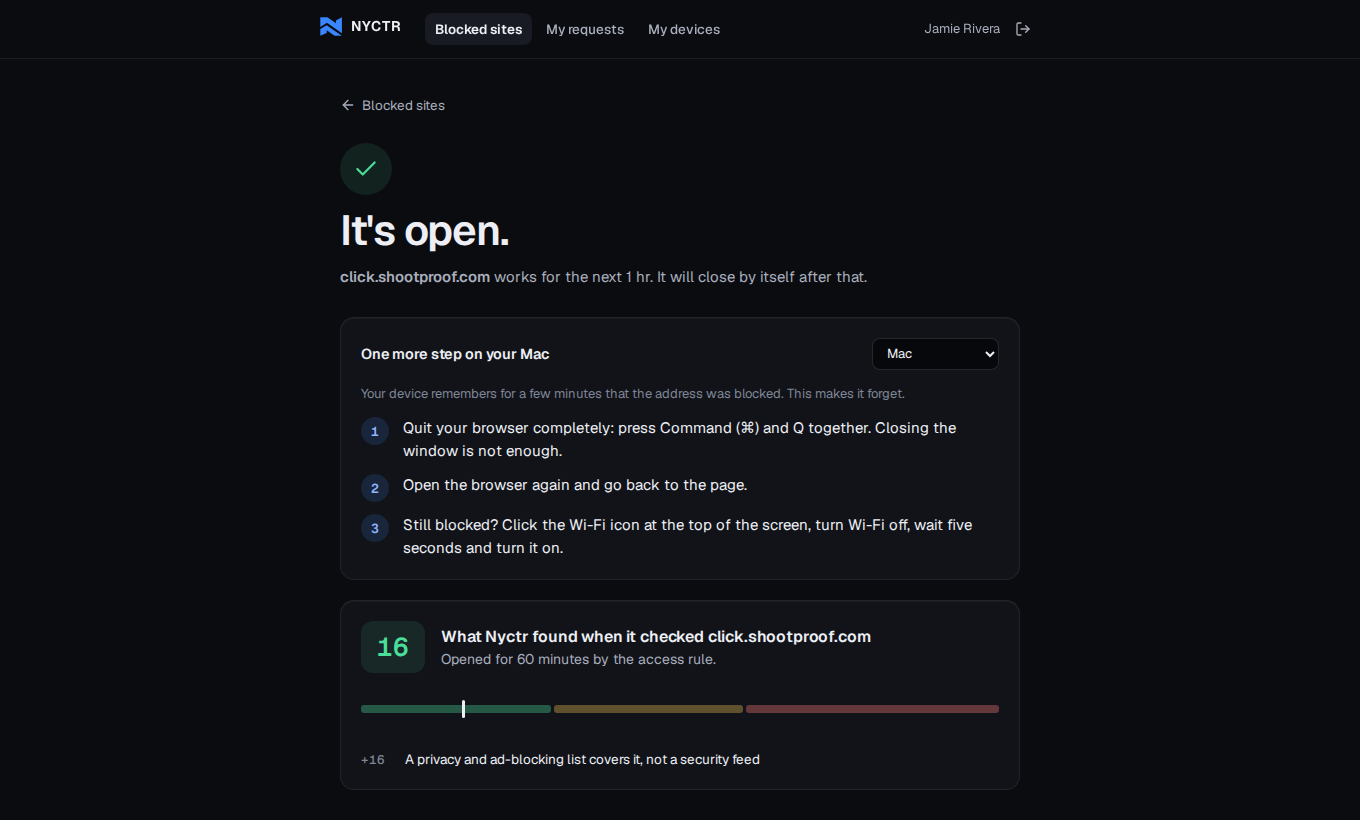
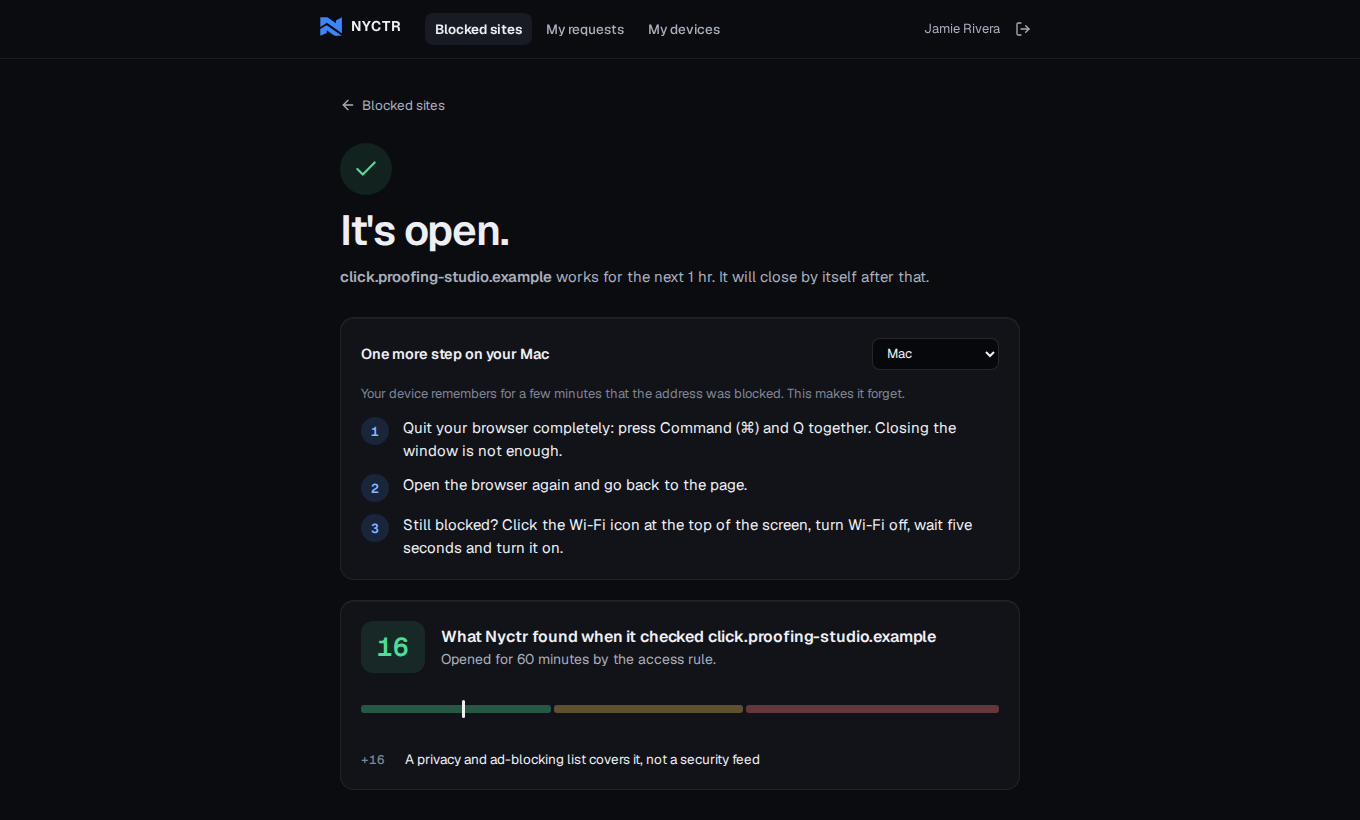
Give the demo reserved names and addresses (#37)
The demo data now uses only values reserved for examples.

- Every blocked lookup in the demo ends in .example.
- The demo's networks, device addresses and hardware addresses come from the blocks reserved for documentation (RFC 5737, RFC 7042).
- A test reads every string in the demo data and every text in fourteen demo responses and fails on a host name, address or hardware address outside those.
- The Map and member portal screenshots in the README are retaken from the demo.

Nothing behaves differently: the demo's links, findings and risk scores are the same.

Changed region(s): [[0.2779, 0.3354, 0.6794, 0.3659], [0.5559, 0.7622, 0.6794, 0.7927]]

diff --git a/apps/web/src/lib/map-layout.test.ts b/apps/web/src/lib/map-layout.test.ts
@@ -34,16 +34,16 @@ const edge = (
   provider: evidence === 'inferred' ? 'nyctr' : 'unifi_network',
   evidence_kind: evidence,
   observed_at: '2026-11-10T00:00:00Z',
-  attributes: evidence === 'inferred' ? { basis: 'Network card tagged VLAN 66' } : {},
+  attributes: evidence === 'inferred' ? { basis: 'Network card tagged VLAN 20' } : {},
 });
 
 const graph: Graph = {
   nodes: [
     node('site', 'site', 'unifi_network'),
     node('gw', 'gateway', 'unifi_network'),
-    node('guest', 'network', 'unifi_network', { vlan: 80 }),
-    node('lan', 'network', 'unifi_network', { vlan: 65 }),
-    node('servers', 'network', 'unifi_network', { vlan: 66 }),
+    node('guest', 'network', 'unifi_network', { vlan: 40 }),
+    node('lan', 'network', 'unifi_network', { vlan: 10 }),
+    node('servers', 'network', 'unifi_network', { vlan: 20 }),
     node('laptop', 'client', 'unifi_network'),
     node('nic', 'client', 'unifi_network'),
     node('pve', 'host', 'proxmox'),
@@ -70,9 +70,9 @@ describe('map layout', () => {
     const layout = layoutMap(graph);
     expect(layout.lanes.map((lane) => lane.id)).toEqual([SHARED, 'lan', 'servers', 'guest']);
     expect(layout.lanes.map((lane) => lane.sub).slice(1)).toEqual([
-      'VLAN 65',
-      'VLAN 66',
-      'VLAN 80',
+      'VLAN 10',
+      'VLAN 20',
+      'VLAN 40',
     ]);
   });
 

diff --git a/apps/web/src/pages/MapPage.test.tsx b/apps/web/src/pages/MapPage.test.tsx
@@ -47,7 +47,7 @@ describe('why a device is filed as a gateway', () => {
 /** Nine devices on one network: the square draws five and a box holds four. */
 const crowded: Graph = {
   nodes: [
-    { ...thing('guest', 'network', 'Guest'), attributes: { vlan: 80 } },
+    { ...thing('guest', 'network', 'Guest'), attributes: { vlan: 40 } },
     ...Array.from({ length: 9 }, (_, i) => thing(`d${i}`, 'client', `Device ${i}`)),
   ],
   edges: Array.from({ length: 9 }, (_, i) => link(`d${i}`, 'guest', 'member_of')),

diff --git a/services/api/nyctr/seed.py b/services/api/nyctr/seed.py
@@ -93,46 +93,46 @@ def seed_demo(db):
             {"name": "Northgate", "enabled": True, "captive_portal": False, "network_id": "example-network-lan"},
             {"name": "Northgate IoT", "enabled": True, "captive_portal": False, "network_id": "example-network-iot"},
             {"name": "Northgate Guest", "enabled": True, "captive_portal": True, "network_id": "example-network-guest"}]}),
-        ("gateway", "Northgate gateway", "gateway", "demo-unifi", "infrastructure", None, {"model": "Cloud gateway", "ip": "10.20.65.1"}),
+        ("gateway", "Northgate gateway", "gateway", "demo-unifi", "infrastructure", None, {"model": "Cloud gateway", "ip": "192.0.2.1"}),
         ("switch-core", "Core aggregation", "switch", "demo-unifi", "infrastructure", None, {"model": "Aggregation switch", "ports": 8}),
         ("ap-basement", "Ground floor access point", "access_point", "demo-unifi", "infrastructure", None, {"model": "Wireless AP"}),
-        ("network-lan", "Trusted LAN", "network", "demo-unifi", "infrastructure", None, {"vlan": 65, "subnet": "10.20.65.0/24"}),
-        ("network-guest", "Guest network", "network", "demo-unifi", "infrastructure", None, {"vlan": 80, "subnet": "10.20.80.0/24", "purpose": "guest"}),
-        ("network-iot", "IoT network", "network", "demo-unifi", "infrastructure", None, {"vlan": 67, "subnet": "10.20.67.0/24"}),
-        ("laptop-jamie", "Jamie's MacBook", "client", "demo-unifi", "personal", "user-jamie", {"ip": "10.20.65.42", "mac": "a4:83:e7:10:20:42", "platform": "macOS", "type": "WIRELESS"}),
-        ("tablet-family", "Front desk tablet", "client", "demo-unifi", "shared", None, {"ip": "10.20.65.51", "mac": "f0:18:98:10:20:51", "platform": "iPadOS", "type": "WIRELESS"}),
-        ("workstation", "Alex's workstation", "client", "demo-unifi", "personal", "user-admin", {"ip": "10.20.65.28", "mac": "3c:7c:3f:10:20:28", "platform": "Linux", "type": "WIRED"}),
-        ("washer", "Lobby display", "client", "demo-unifi", "infrastructure", None, {"ip": "10.20.67.80", "mac": "00:1d:c9:10:20:80", "category": "IoT", "type": "WIRELESS"}),
-        ("old-laptop", "Reassigned laptop", "client", "demo-unifi", "personal", "user-admin", {"ip": "10.20.65.62", "mac": "8c:85:90:10:20:62", "type": "WIRELESS"}),
-        ("host-compute", "Compute-01", "host", "demo-compute", "infrastructure", None, {"status": "online", "addresses": ["10.20.66.3"], "cluster_firewall_enabled": True}),
-        ("workload-photos", "Document service", "workload", "demo-compute", "infrastructure", None, {"vmid": "101", "type": "vm", "node": "compute-01", "status": "running", "firewall_enabled": True, "nics": [{"bridge": "vmbr0", "mac": "bc:24:11:10:66:11", "vlan": 66, "firewall": True}], "port": 443}),
-        ("workload-management", "Management console", "workload", "demo-compute", "infrastructure", None, {"vmid": "102", "type": "vm", "node": "compute-01", "status": "running", "firewall_enabled": True, "nics": [{"bridge": "vmbr0", "mac": "bc:24:11:10:66:12", "vlan": 66, "firewall": True}], "port": 8006}),
+        ("network-lan", "Trusted LAN", "network", "demo-unifi", "infrastructure", None, {"vlan": 10, "subnet": "192.0.2.0/25"}),
+        ("network-guest", "Guest network", "network", "demo-unifi", "infrastructure", None, {"vlan": 40, "subnet": "203.0.113.0/24", "purpose": "guest"}),
+        ("network-iot", "IoT network", "network", "demo-unifi", "infrastructure", None, {"vlan": 30, "subnet": "192.0.2.128/25"}),
+        ("laptop-jamie", "Jamie's MacBook", "client", "demo-unifi", "personal", "user-jamie", {"ip": "192.0.2.42", "mac": "00:00:5e:00:53:42", "platform": "macOS", "type": "WIRELESS"}),
+        ("tablet-family", "Front desk tablet", "client", "demo-unifi", "shared", None, {"ip": "192.0.2.51", "mac": "00:00:5e:00:53:51", "platform": "iPadOS", "type": "WIRELESS"}),
+        ("workstation", "Alex's workstation", "client", "demo-unifi", "personal", "user-admin", {"ip": "192.0.2.28", "mac": "00:00:5e:00:53:28", "platform": "Linux", "type": "WIRED"}),
+        ("washer", "Lobby display", "client", "demo-unifi", "infrastructure", None, {"ip": "192.0.2.180", "mac": "00:00:5e:00:53:80", "category": "IoT", "type": "WIRELESS"}),
+        ("old-laptop", "Reassigned laptop", "client", "demo-unifi", "personal", "user-admin", {"ip": "192.0.2.62", "mac": "00:00:5e:00:53:62", "type": "WIRELESS"}),
+        ("host-compute", "Compute-01", "host", "demo-compute", "infrastructure", None, {"status": "online", "addresses": ["198.51.100.3"], "cluster_firewall_enabled": True}),
+        ("workload-photos", "Document service", "workload", "demo-compute", "infrastructure", None, {"vmid": "101", "type": "vm", "node": "compute-01", "status": "running", "firewall_enabled": True, "nics": [{"bridge": "vmbr0", "mac": "00:00:5e:00:53:11", "vlan": 20, "firewall": True}], "port": 443}),
+        ("workload-management", "Management console", "workload", "demo-compute", "infrastructure", None, {"vmid": "102", "type": "vm", "node": "compute-01", "status": "running", "firewall_enabled": True, "nics": [{"bridge": "vmbr0", "mac": "00:00:5e:00:53:12", "vlan": 20, "firewall": True}], "port": 8006}),
         ("policy-guest", "Guest → services", "policy", "demo-unifi", "infrastructure", None, {"action": "allow", "port": 8006, "review": "source scope too broad"}),
         ("dns-home", "Office DNS profile", "dns_profile", "demo-nextdns", "infrastructure", None, {"scope": "All devices using this profile", "logs_enabled": True}),
         # Added with the console MVP: a servers VLAN, a second access point, guests and Proxmox networking.
-        ("network-servers", "Servers", "network", "demo-unifi", "infrastructure", None, {"vlan": 66, "subnet": "10.20.66.0/24"}),
+        ("network-servers", "Servers", "network", "demo-unifi", "infrastructure", None, {"vlan": 20, "subnet": "198.51.100.0/24"}),
         ("ap-upstairs", "First floor access point", "access_point", "demo-unifi", "infrastructure", None, {"model": "Wireless AP"}),
-        ("client-compute", "compute-01", "client", "demo-unifi", "infrastructure", None, {"ip": "10.20.66.3", "mac": "58:47:ca:10:66:03", "type": "WIRED"}),
+        ("client-compute", "compute-01", "client", "demo-unifi", "infrastructure", None, {"ip": "198.51.100.3", "mac": "00:00:5e:00:53:03", "type": "WIRED"}),
         ("guest-priya", "Priya's iPhone", "client", "demo-unifi", "unassigned", None, {
-            "ip": "10.20.80.21", "mac": "de:ad:10:20:80:21", "type": "WIRELESS", "uplink": "example-ap-upstairs", "connected_at": _iso(now, 95),
+            "ip": "203.0.113.21", "mac": "00:00:5e:00:53:21", "type": "WIRELESS", "uplink": "example-ap-upstairs", "connected_at": _iso(now, 95),
             "guest": {"authorized": True, "method": "pass", "authorized_at": _iso(now, 94),
                       "expires_at": _iso(now, -386), "bytes": 412_000_000, "seconds": 5640}}),
         ("guest-hvac", "HVAC-Laptop", "client", "demo-unifi", "unassigned", None, {
-            "ip": "10.20.80.34", "mac": "de:ad:10:20:80:34", "type": "WIRELESS", "uplink": "example-ap-basement", "connected_at": _iso(now, 41),
+            "ip": "203.0.113.34", "mac": "00:00:5e:00:53:34", "type": "WIRELESS", "uplink": "example-ap-basement", "connected_at": _iso(now, 41),
             "guest": {"authorized": True, "method": "pass", "authorized_at": _iso(now, 40),
                       "expires_at": _iso(now, -200), "bytes": 38_000_000, "seconds": 2400}}),
         ("guest-pixel", "Pixel 8", "client", "demo-unifi", "unassigned", None, {
-            "ip": "10.20.80.47", "mac": "de:ad:10:20:80:47", "type": "WIRELESS", "uplink": "example-ap-basement", "connected_at": _iso(now, 27),
+            "ip": "203.0.113.47", "mac": "00:00:5e:00:53:47", "type": "WIRELESS", "uplink": "example-ap-basement", "connected_at": _iso(now, 27),
             "guest": {"authorized": False, "method": "pass", "authorized_at": _iso(now, 26),
                       "expires_at": _iso(now, -94), "bytes": 9_400_000, "seconds": 1200}}),
         ("guest-galaxy", "Galaxy-S24", "client", "demo-unifi", "unassigned", None, {
-            "ip": "10.20.80.52", "mac": "de:ad:10:20:80:52", "type": "WIRELESS", "uplink": "example-ap-upstairs", "connected_at": _iso(now, 3),
+            "ip": "203.0.113.52", "mac": "00:00:5e:00:53:52", "type": "WIRELESS", "uplink": "example-ap-upstairs", "connected_at": _iso(now, 3),
             "guest": {"authorized": False}}),
-        ("bridge-vmbr0", "vmbr0 on compute-01", "bridge", "demo-compute", "infrastructure", None, {"iface": "vmbr0", "node": "compute-01", "active": True, "vlan_aware": True, "ports": "enp3s0", "cidr": "10.20.66.3/24"}),
-        ("workload-indexer", "Search indexer", "workload", "demo-compute", "infrastructure", None, {"vmid": "204", "type": "container", "node": "compute-01", "status": "running", "firewall_enabled": False, "nics": [{"bridge": "vmbr0", "mac": "bc:24:11:10:66:44", "vlan": 66, "firewall": False}]}),
+        ("bridge-vmbr0", "vmbr0 on compute-01", "bridge", "demo-compute", "infrastructure", None, {"iface": "vmbr0", "node": "compute-01", "active": True, "vlan_aware": True, "ports": "enp3s0", "cidr": "198.51.100.3/24"}),
+        ("workload-indexer", "Search indexer", "workload", "demo-compute", "infrastructure", None, {"vmid": "204", "type": "container", "node": "compute-01", "status": "running", "firewall_enabled": False, "nics": [{"bridge": "vmbr0", "mac": "00:00:5e:00:53:44", "vlan": 20, "firewall": False}]}),
         ("dns-label-jamie", "Jamies-MacBook-Pro", "client", "demo-nextdns", "unassigned", None, {"model": "MacBook Pro", "identity_verified": False}),
         ("dns-workshop", "Annex resolver", "dns_profile", "demo-pihole", "infrastructure", None, {"scope": "entire_resolver"}),
-        ("dns-label-bench", "bench-pc", "client", "demo-pihole", "unassigned", None, {"ip": "10.20.67.90", "identity_verified": False}),
+        ("dns-label-bench", "bench-pc", "client", "demo-pihole", "unassigned", None, {"ip": "192.0.2.190", "identity_verified": False}),
     ]
     for id_, name, kind, integration, classification, owner, attrs in resources:
         provider = {"demo-nextdns": "nextdns", "demo-compute": "proxmox",
@@ -179,13 +179,13 @@ def seed_demo(db):
     db.add(DeviceGrant(device_id="old-laptop", user_id="user-admin", valid_from=now - timedelta(hours=1)))
     privacy, threat = ["blocklist:hagezi-multi-pro-plusplus"], ["threat-intelligence-feeds"]
     events = [
-        ("block-gallery", "laptop-jamie", "Jamie's MacBook", "click.shootproof.com", "HaGeZi Multi PRO++", privacy, 8),
-        ("block-tablet", "tablet-family", "Front desk tablet", "gallery.example.com", "Denylist", ["denylist"], 26),
-        ("block-admin", "workstation", "Alex's workstation", "downloads.example.net", "Threat Intelligence Feeds", threat, 12),
+        ("block-gallery", "laptop-jamie", "Jamie's MacBook", "click.proofing-studio.example", "HaGeZi Multi PRO++", privacy, 8),
+        ("block-tablet", "tablet-family", "Front desk tablet", "gallery.imagehost.example", "Denylist", ["denylist"], 26),
+        ("block-admin", "workstation", "Alex's workstation", "downloads.filemirror.example", "Threat Intelligence Feeds", threat, 12),
         ("block-washer", "washer", "Lobby display", "telemetry.display-vendor.example", "IoT outbound policy", [], 3),
-        ("block-unattributed", None, "Unknown source device", "metrics.example.org", "Upstream DNS query lacks device identity", [], 5),
-        ("block-old-owner", "old-laptop", "Reassigned laptop", "work.example.net", "Historical event before device reassignment", [], 120),
-        ("block-expired", "laptop-jamie", "Jamie's MacBook", "old.example.com", "Expired inbox fixture", [], 3000),
+        ("block-unattributed", None, "Unknown source device", "metrics.analytics-hub.example", "Upstream DNS query lacks device identity", [], 5),
+        ("block-old-owner", "old-laptop", "Reassigned laptop", "work.intranet-tools.example", "Historical event before device reassignment", [], 120),
+        ("block-expired", "laptop-jamie", "Jamie's MacBook", "old.archive-site.example", "Expired inbox fixture", [], 3000),
         ("block-fonts", "laptop-jamie", "Jamie's MacBook", "fonts.partner-metrics.example", "HaGeZi Multi PRO++", privacy, 19),
         ("block-verify", "laptop-jamie", "Jamie's MacBook", "account-verify.secure-login.example", "Newly Registered Domains", ["nrd"], 34),
         ("block-stream", "tablet-family", "Front desk tablet", "watch.streamhub.example", "Parental Control: streaming", ["parental-control:category"], 52),

diff --git a/services/api/tests/test_proxmox.py b/services/api/tests/test_proxmox.py
@@ -15,8 +15,8 @@ TOKEN = "nyctr@pve!reader=0f8fad5b-d9cb-469f-a165-70867728950e"
 
 
 @pytest.mark.parametrize("text,expected", [
-    ("virtio=BC:24:11:AA:BB:CC,bridge=vmbr0,firewall=1,tag=66",
-     {"bridge": "vmbr0", "mac": "bc:24:11:aa:bb:cc", "vlan": 66, "firewall": True, "link_down": False}),
+    ("virtio=BC:24:11:AA:BB:CC,bridge=vmbr0,firewall=1,tag=20",
+     {"bridge": "vmbr0", "mac": "bc:24:11:aa:bb:cc", "vlan": 20, "firewall": True, "link_down": False}),
     ("name=eth0,bridge=vmbr1,hwaddr=BC:24:11:00:00:01,ip=dhcp,type=veth",
      {"bridge": "vmbr1", "mac": "bc:24:11:00:00:01", "vlan": None, "firewall": False, "link_down": False}),
     ("e1000=BC:24:11:00:00:02,bridge=vmbr0,tag=9999,link_down=1",
@@ -64,11 +64,11 @@ def test_collection_reads_only_and_models_cards_as_configuration(monkeypatch):
                                {"type": "storage", "node": "pve1", "id": "storage/pve1/local"}],
         "/cluster/firewall/options": {"enable": 1},
         "/nodes/pve1/network": [{"iface": "vmbr0", "type": "bridge", "active": 1, "bridge_vlan_aware": 1,
-                                 "cidr": "10.20.66.3/24", "bridge_ports": "enp3s0"},
+                                 "cidr": "198.51.100.3/24", "bridge_ports": "enp3s0"},
                                 {"iface": "enp3s0", "type": "eth"}],
-        "/nodes/pve1/qemu/101/config": {"name": "photos", "net0": "virtio=BC:24:11:10:66:11,bridge=vmbr0,tag=66,firewall=1"},
+        "/nodes/pve1/qemu/101/config": {"name": "photos", "net0": "virtio=00:00:5e:00:53:11,bridge=vmbr0,tag=20,firewall=1"},
         "/nodes/pve1/qemu/101/firewall/options": {"enable": 1},
-        "/nodes/pve1/lxc/204/config": {"hostname": "indexer", "net0": "name=eth0,bridge=vmbr0,hwaddr=BC:24:11:10:66:44,tag=66"},
+        "/nodes/pve1/lxc/204/config": {"hostname": "indexer", "net0": "name=eth0,bridge=vmbr0,hwaddr=00:00:5e:00:53:44,tag=20"},
     }
     calls = []
 
@@ -90,14 +90,14 @@ def test_collection_reads_only_and_models_cards_as_configuration(monkeypatch):
     kinds = sorted(node["kind"] for node in snapshot.resources)
     assert kinds == ["bridge", "host", "workload", "workload"] and snapshot.blocks == []
     by_name = {node["name"]: node for node in snapshot.resources}
-    assert by_name["pve1"]["attributes"]["addresses"] == ["10.20.66.3"]
+    assert by_name["pve1"]["attributes"]["addresses"] == ["198.51.100.3"]
     assert by_name["photos"]["attributes"]["firewall_enabled"] is True
     # The container's firewall option read failed: its state is unknown, never assumed off.
     assert by_name["indexer"]["attributes"]["firewall_enabled"] is None
     assert by_name["indexer"]["attributes"]["nics"][0]["firewall"] is False
     assert "proxmox_firewall_options_unavailable" in evidence.gaps
     card = next(e for e in snapshot.relationships if e["kind"] == "connects_to" and e["source"] == by_name["photos"]["id"])
-    assert card["evidence_kind"] == "configured" and card["attributes"]["vlan"] == 66
+    assert card["evidence_kind"] == "configured" and card["attributes"]["vlan"] == 20
     assert all(edge["kind"] in {"hosted_by", "connects_to"} for edge in snapshot.relationships)
 
 
@@ -106,14 +106,14 @@ def test_cross_source_links_need_a_unique_match():
     def row(id_, provider, kind, **attrs):
         return {"id": id_, "provider": provider, "kind": kind, "attributes": attrs, "observed_at": "2026-11-10T00:00:00+00:00"}
 
-    vm = row("vm", "proxmox", "workload", nics=[{"mac": "BC:24:11:00:00:01", "vlan": 66}])
+    vm = row("vm", "proxmox", "workload", nics=[{"mac": "BC:24:11:00:00:01", "vlan": 20}])
     client = row("c1", "unifi_network", "client", mac="bc:24:11:00:00:01")
-    lan = row("n66", "unifi_network", "network", vlan=66)
+    lan = row("n20", "unifi_network", "network", vlan=20)
     links = derived_links([vm, client, lan])
     assert {(e["source"], e["target"], e["kind"], e["evidence_kind"]) for e in links} == {
-        ("vm", "c1", "same_device", "inferred"), ("vm", "n66", "member_of", "inferred")}
+        ("vm", "c1", "same_device", "inferred"), ("vm", "n20", "member_of", "inferred")}
     twin = row("c2", "unifi_network", "client", mac="bc:24:11:00:00:01")
-    other = row("n66b", "unifi_network", "network", vlan=66)
+    other = row("n20b", "unifi_network", "network", vlan=20)
     assert derived_links([vm, client, twin, lan, other]) == []
 
 

diff --git a/services/api/tests/test_plain_words.py b/services/api/tests/test_plain_words.py
@@ -1,5 +1,7 @@
 """Sentences an administrator reads: refusals in the form's own words, every audit action worded, gaps that agree."""
 
+import ast
+import ipaddress
 import re
 from pathlib import Path
 
@@ -144,16 +146,16 @@ SHOWN = ("/api/integrations", "/api/resources", "/api/blocks", "/api/requests", 
          "/api/guests", "/api/findings", "/api/users", "/api/devices", "/api/attention", "/api/overview")
 
 
-def _words(value, key=""):
+def _words(value, key="", keyed=False):
     """Every text a page could show from a response: values only, and never an id or a reference to one."""
     if isinstance(value, dict):
         for name, item in value.items():
-            yield from _words(item, name)
+            yield from _words(item, name, keyed)
     elif isinstance(value, list):
         for item in value:
-            yield from _words(item, key)
+            yield from _words(item, key, keyed)
     elif isinstance(value, str) and not re.search(r"(^|_)ids?$|^(uplink|source|target|email|href|link)$", key):
-        yield value
+        yield (key, value) if keyed else value
 
 
 def test_the_demo_names_no_real_installation_and_uses_no_home_wording(client, admin_headers):
@@ -167,3 +169,33 @@ def test_the_demo_names_no_real_installation_and_uses_no_home_wording(client, ad
     assert sorted({text for text in shown if HOUSEHOLD.search(text)}) == []
     surnames = [row["name"].split()[-1] for row in client.get("/api/users").json()]
     assert len(set(surnames)) == len(surnames), "people who share a surname read as one family"
+
+
+# Names nobody can register: the endings kept for examples and tests.
+RESERVED = (".example", ".test", ".invalid", ".localhost")
+HOST = re.compile(r"(?<![\w@.-])(?:[a-z0-9-]+\.)+[a-z]{2,}(?![\w-])")
+# The address ranges kept for documentation, and the hardware addresses kept for it.
+DOCUMENTED = [ipaddress.ip_network(block) for block in ("192.0.2.0/24", "198.51.100.0/24", "203.0.113.0/24")]
+ADDRESS = re.compile(r"(?<![\d.])(?:\d{1,3}\.){3}\d{1,3}(?![\d.])")
+HARDWARE = re.compile(r"\b(?:[0-9a-f]{2}:){5}[0-9a-f]{2}\b", re.I)
+
+
+def test_the_demo_shows_no_real_host_name_address_or_hardware_address(client, admin_headers):
+    """Every host name ends in a reserved name, and every address is from a block kept for documentation."""
+    seeded = [node.value for node in ast.walk(ast.parse((API / "seed.py").read_text()))
+              if isinstance(node, ast.Constant) and isinstance(node.value, str)]
+    # An audit action and a capability are codes with a dot, worded by the page and never shown as stored.
+    shown = [text for path in (*SHOWN, "/api/graph", "/api/audit")
+             for key, text in _words(client.get(path).json(), keyed=True) if key not in {"action", "provides"}]
+    assert len(seeded) > 400 and len(shown) > 800
+    products = [provider.name for provider in registry.providers().values()]
+    hosts, addresses, hardware = set(), set(), set()
+    for text in (*seeded, *shown):
+        for product in products:  # an integration's own product may be written with a dot
+            text = text.replace(product, "")
+        hosts |= {host for host in HOST.findall(text) if not host.endswith(RESERVED)}
+        addresses |= {found for found in ADDRESS.findall(text)
+                      if not any(ipaddress.ip_address(found) in block for block in DOCUMENTED)}
+        hardware |= {found for found in HARDWARE.findall(text) if not found.lower().startswith("00:00:5e:00:53:")}
+    assert (sorted(hosts), sorted(addresses), sorted(hardware)) == ([], [], [])
+    assert any(HOST.search(text) for text in shown) and any(ADDRESS.search(text) for text in shown)

diff --git a/services/api/tests/test_access.py b/services/api/tests/test_access.py
@@ -191,9 +191,9 @@ def test_this_device_is_recognised_only_among_the_callers_devices(client, app, m
     """Recognition returns a device the member already holds; an address never grants a new one."""
     seen = client.get("/api/me/device").json()
     assert seen == {"device_id": "laptop-jamie", "name": "Jamie's MacBook", "simulated": True}
-    found = client.post("/api/blocks/find", headers=member_headers, json={"domain": "shootproof.com"}).json()
+    found = client.post("/api/blocks/find", headers=member_headers, json={"domain": "proofing-studio.example"}).json()
     assert [x["id"] for x in found] == ["block-gallery"]
-    hidden = client.post("/api/blocks/find", headers=member_headers, json={"domain": "downloads.example.net"})
+    hidden = client.post("/api/blocks/find", headers=member_headers, json={"domain": "downloads.filemirror.example"})
     assert hidden.json() == []
 
 
@@ -271,7 +271,7 @@ def test_enabled_writes_add_verify_and_remove_only_what_nyctr_created(tmp_path, 
     with TestClient(app) as client:
         seed_live_member(app)
         row, admin_headers = open_live(client, app)
-        assert row["status"] == "auto_approved" and allowlist == ["click.shootproof.com"]
+        assert row["status"] == "auto_approved" and allowlist == ["click.proofing-studio.example"]
         lease = client.get("/api/leases").json()[0]
         assert lease["execution"] == "applied" and lease["owned"] is True
         assert [c[0] for c in calls] == ["GET", "POST", "GET"]
@@ -283,7 +283,7 @@ def test_enabled_writes_add_verify_and_remove_only_what_nyctr_created(tmp_path, 
 
 def test_a_preexisting_entry_is_never_removed(tmp_path, monkeypatch):
     """If the domain was already allowed, the lease is not owned and expiry leaves the provider alone."""
-    allowlist = ["click.shootproof.com"]
+    allowlist = ["click.proofing-studio.example"]
     calls = nextdns_mock(monkeypatch, allowlist)
     app = live_app(tmp_path, provider_writes="nextdns")
     with TestClient(app) as client:
@@ -292,7 +292,7 @@ def test_a_preexisting_entry_is_never_removed(tmp_path, monkeypatch):
         lease = client.get("/api/leases").json()[0]
         assert lease["execution"] == "applied" and lease["owned"] is False
         assert client.post(f"/api/leases/{lease['id']}/end", headers=admin_headers).status_code == 200
-        assert allowlist == ["click.shootproof.com"] and all(method == "GET" for method, _ in calls)
+        assert allowlist == ["click.proofing-studio.example"] and all(method == "GET" for method, _ in calls)
 
 
 def test_a_failed_close_stays_open_visible_and_retried(tmp_path, monkeypatch):
@@ -307,7 +307,7 @@ def test_a_failed_close_stays_open_visible_and_retried(tmp_path, monkeypatch):
         assert client.post(f"/api/leases/{lease['id']}/end", headers=admin_headers).status_code == 502
         after = client.get("/api/leases").json()[0]
         assert after["status"] == "active" and "HTTP 500" in after["last_error"]
-        assert allowlist == ["click.shootproof.com"]
+        assert allowlist == ["click.proofing-studio.example"]
         assert any(x["kind"] == "lease" for x in client.get("/api/attention").json())
 
 

diff --git a/services/api/tests/test_integrations.py b/services/api/tests/test_integrations.py
@@ -295,9 +295,9 @@ def test_unifi_destination_boundaries(monkeypatch, url):
 
 def test_expected_private_gateway_requires_explicit_allowlist(monkeypatch):
     """Permit an intended private console only with explicit server-side host approval."""
-    monkeypatch.setenv("NYCTR_CONNECTOR_HOSTS", "10.20.65.1")
-    config = validate_config("unifi_network", {"base_url": "https://10.20.65.1/proxy/network/integration/"})
-    assert config["base_url"] == "https://10.20.65.1/proxy/network/integration"
+    monkeypatch.setenv("NYCTR_CONNECTOR_HOSTS", "192.0.2.1")
+    config = validate_config("unifi_network", {"base_url": "https://192.0.2.1/proxy/network/integration/"})
+    assert config["base_url"] == "https://192.0.2.1/proxy/network/integration"
 
 
 def test_nextdns_does_not_accept_credential_destinations_or_inline_secrets():
@@ -318,8 +318,8 @@ def test_unifi_models_real_uplink_and_policy_evidence_not_access_results(monkeyp
     pages = {
         "/v1/sites": [{"id": "site-one", "name": "Lab"}],
         "/v1/sites/site-one/devices": [{"id": "gw-one", "name": "Gateway", "features": ["gateway", "switching"]}],
-        "/v1/sites/site-one/networks": [{"id": "net-one", "name": "LAN", "vlanId": 66, "zoneId": "internal"}],
-        "/v1/sites/site-one/clients": [{"id": "client-one", "name": "Laptop", "uplinkDeviceId": "gw-one", "ipAddress": "10.20.66.10", "type": "WIRED"}],
+        "/v1/sites/site-one/networks": [{"id": "net-one", "name": "LAN", "vlanId": 20, "zoneId": "internal"}],
+        "/v1/sites/site-one/clients": [{"id": "client-one", "name": "Laptop", "uplinkDeviceId": "gw-one", "ipAddress": "198.51.100.10", "type": "WIRED"}],
         "/v1/sites/site-one/firewall/policies": [{"id": "rule-one", "name": "Block management", "action": {"type": "BLOCK"}, "source": {"zoneId": "internal"}, "destination": {"zoneId": "external"}, "index": 10}],
         "/v1/sites/site-one/hotspot/vouchers": [],
         "/v1/sites/site-one/wifi/broadcasts": [

diff --git a/services/api/tests/test_query.py b/services/api/tests/test_query.py
@@ -22,10 +22,10 @@ def test_inventory_filters_and_nested_links(client, admin_headers):
       workloads(firewall: false) { name attr(key: "vmid") network { name } }
       networks { name attr(key: "vlan") }
       guests: devices(search: "pixel") { name evidence blocks(first: 10) { domain riskBand } }
-      tagged: resources(kind: ["network"], where: [{key: "vlan", eq: "80"}]) { name neighbors(kind: "client") { name } }
+      tagged: resources(kind: ["network"], where: [{key: "vlan", eq: "40"}]) { name neighbors(kind: "client") { name } }
     }""")["data"]
     assert data["workloads"] == [{"name": "Search indexer", "attr": "204", "network": {"name": "Servers"}}]
-    assert {"name": "Guest network", "attr": "80"} in data["networks"]
+    assert {"name": "Guest network", "attr": "40"} in data["networks"]
     assert {b["riskBand"] for b in data["guests"][0]["blocks"]} == {"high", "low"}
     assert {n["name"] for n in data["tagged"][0]["neighbors"]} == {"Priya's iPhone", "HVAC-Laptop", "Pixel 8",
                                                                 "Galaxy-S24"}

diff --git a/services/api/tests/test_assistant.py b/services/api/tests/test_assistant.py
@@ -96,7 +96,7 @@ def test_model_context_is_redacted_and_injected_text_stays_data(tmp_path, monkey
     waiting = pack["requests_waiting"][0]
     assert waiting["their_reason"].startswith("Ignore previous instructions")
     assert "eve@evil.example" not in user and "10.9.8.7" not in user and "[removed]" in waiting["their_reason"]
-    for secret in ("77102-33864", "model-secret", "nyctr-demo", "10.20.80.47", "de:ad:10:20:80:47", "jamie@nyctr.demo"):
+    for secret in ("77102-33864", "model-secret", "nyctr-demo", "203.0.113.47", "00:00:5e:00:53:47", "jamie@nyctr.demo"):
         assert secret not in user
     assert "guest-pixel" not in user and "request-stream" not in user  # only short refs are exposed
 

diff --git a/services/api/tests/test_risk.py b/services/api/tests/test_risk.py
@@ -7,7 +7,7 @@ from nyctr import risk
 
 def test_privacy_list_block_scores_low_and_says_why():
     """A privacy-list reason is low risk and the factor names the kind of list, not a verdict of safety."""
-    result = risk.assess("click.shootproof.com", "HaGeZi Multi PRO++", ["blocklist:hagezi-multi-pro-plusplus"], "nextdns")
+    result = risk.assess("click.proofing-studio.example", "HaGeZi Multi PRO++", ["blocklist:hagezi-multi-pro-plusplus"], "nextdns")
     assert result.score == 16 and result.band == "low" and result.category == risk.PRIVACY
     assert "privacy" in result.factors[0]["label"].lower()
 

diff --git a/services/api/tests/conftest.py b/services/api/tests/conftest.py
@@ -60,7 +60,7 @@ def live_signin(client, who=LIVE_ADMIN):
 
 
 def seed_live_member(app, *, reason="HaGeZi Multi PRO++", codes=("blocklist:hagezi-multi-pro-plusplus",),
-                     domain="click.shootproof.com"):
+                     domain="click.proofing-studio.example"):
     """Insert a NextDNS source, one member with one personal device, and one fresh attributed block."""
     from datetime import timedelta
 

diff --git a/services/api/tests/test_crossing.py b/services/api/tests/test_crossing.py
@@ -20,7 +20,7 @@ from nyctr import access
 from nyctr.integrations import IntegrationError, actions, core
 from nyctr.models import AccessRequest, Audit, Integration, Lease, Observation, Setting, utcnow
 
-DOMAIN = "click.shootproof.com"
+DOMAIN = "click.proofing-studio.example"
 GATEWAY = {"base_url": "https://unifi.example/proxy/network/integration"}
 
 
